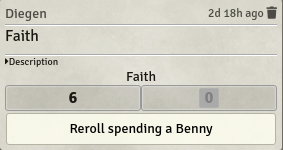
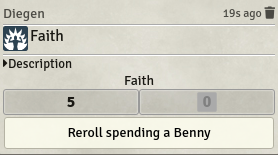
Release 1.0.2

Changed region(s): [[0.0, 0.0, 1.0, 1.0], [0.2302, 0.8, 0.777, 0.9067], [0.2302, 0.6133, 0.2878, 0.6933]]

diff --git a/README.md b/README.md
@@ -21,6 +21,14 @@ The systems always roll a wild die for extras but it will never get selected (it
 
 Red numbers means that a fumble has been rolled, explosions are marked in blue.
 
+## Skill Rolls (npc sheets)
+
+You can now turn skill rolls for NPCs in the options.
+
+![NPC_skill_setting](docs/settings_npc_skills.png)
+
+When enabled the default npc sheet will be modified to add small images before the skills. Clicking on then will make the roll.
+
 ## Weapon Rolls
 
 Weapon rolls can be toggled from the weapon image either in the inventory or quick access.

diff --git a/CHANGELOG.md b/CHANGELOG.md
@@ -2,6 +2,13 @@
 
 # 1.0.1
 
+* Initial documentation
+* First try to NPC skill rolls (optional)
+* Item image on roll cards
+* Bigger font in descriptions
+
+# 1.0.1
+
 * Bugfixes for non svg skill images
 * Bugfix for images in multiline skill names
 * Support for skill names in Spanish
